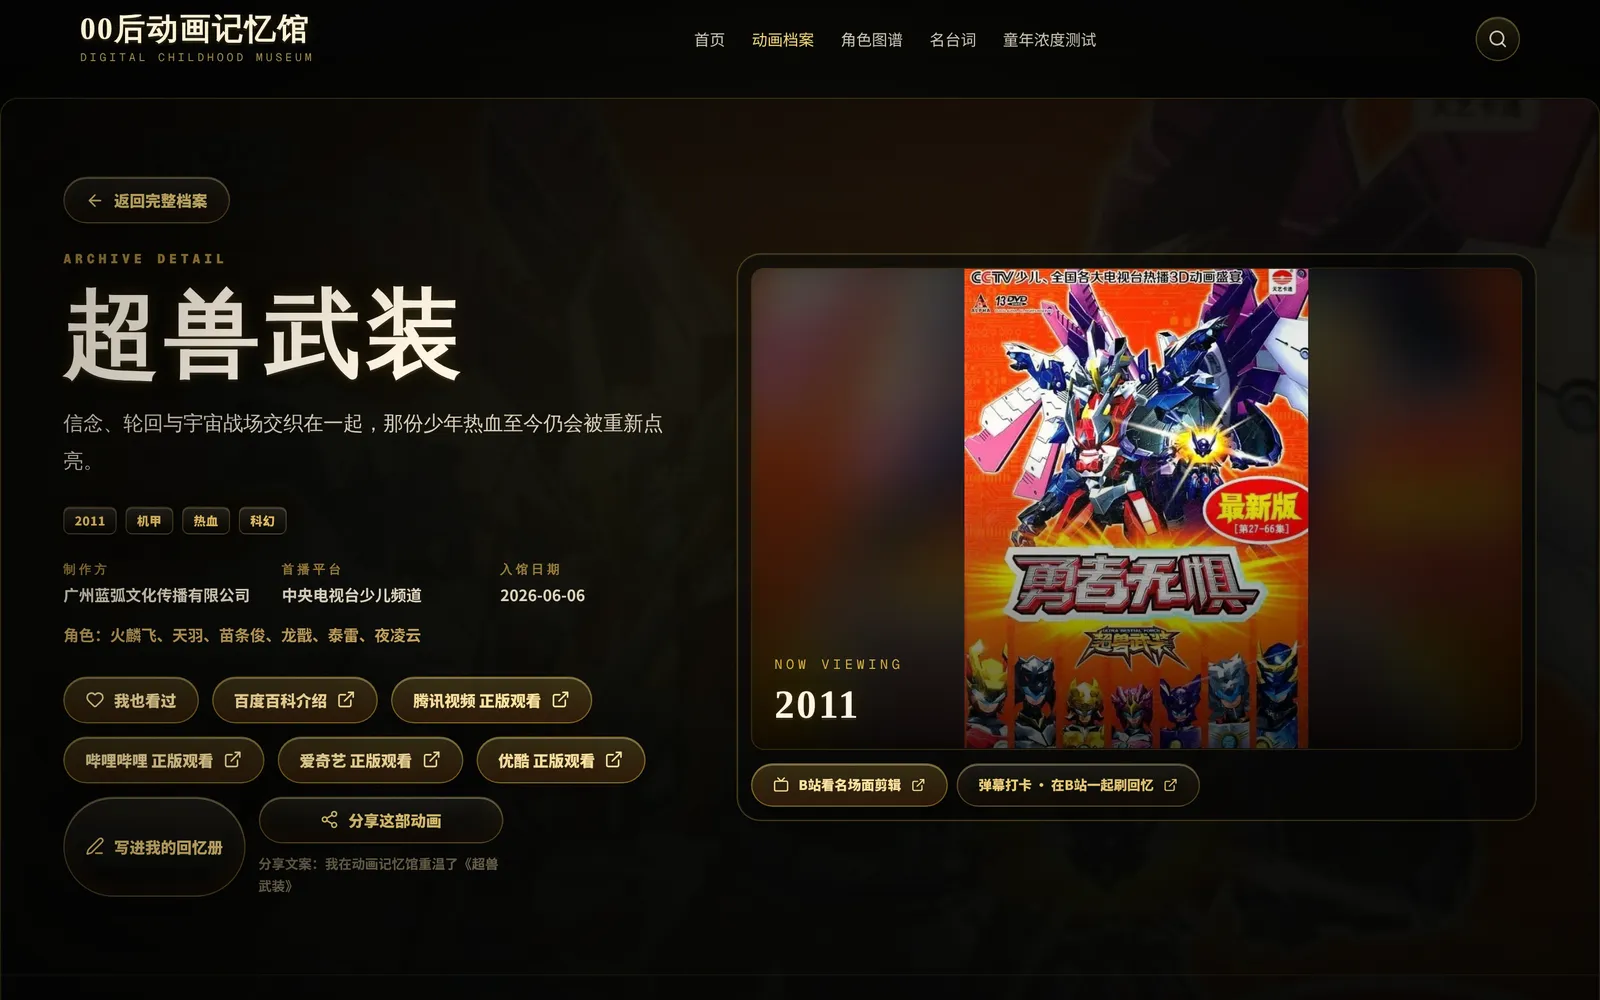
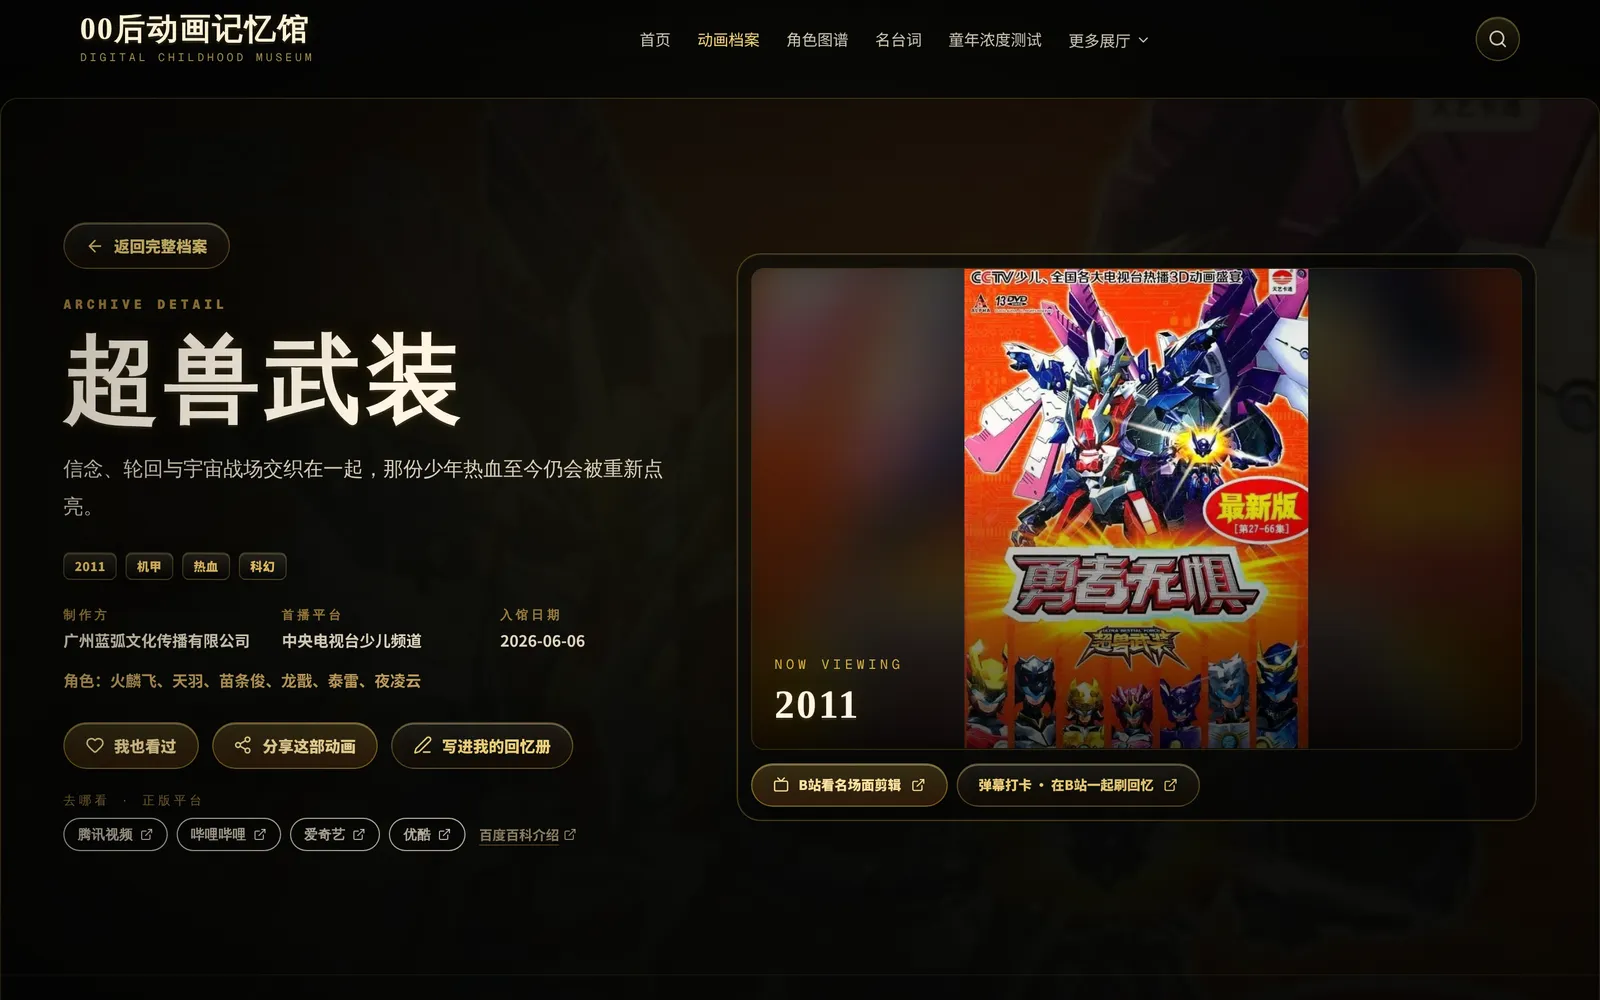
docs: document search/AI discoverability and new features
- New 🔎 section in both READMEs: sitemap, robots, llms.txt, JSON-LD,
  per-page metadata, and the owner-only step of setting
  GOOGLE/BING/BAIDU_SITE_VERIFICATION and submitting the sitemap.
- Program guide, features, commands, testing, structure and limitations
  updated for share previews, quiz card and Memory Book backup.
- Refresh screenshots from the current production build.

Claude-Session: https://claude.ai/code/session_019E66weLZGuBPessZzK1Emk

Changed region(s): [[0.0312, 0.186, 0.4062, 0.899], [0.4062, 0.031, 0.7188, 0.062]]

diff --git a/README.en.md b/README.en.md
@@ -40,12 +40,12 @@ The museum is laid out like a channel lineup. Every row is a real route in `src/
 | **CH 04** · Characters | `/characters` | Interactive relationship graph — drag, pan, zoom, click a character for a profile |
 | **CH 05** · Quotes | `/quotes` | Catchphrases and battle cries, filterable by title |
 | **CH 06** · Songs | `/songs` | Openings and endings styled as cassettes, each a link to search it on Bilibili |
-| **CH 07** · Timeline | `/timeline` | Titles grouped into eras derived from the data |
-| **CH 08** · Quiz | `/quiz` | Six-question "childhood concentration" test with a shareable result |
-| **CH 09** · Memory Book | `/#contribute` | Private notebook saved in your browser, exportable as a PNG card |
+| **CH 07** · Timeline | `/timeline` | Titles grouped into 4-year eras counted from the earliest admitted year |
+| **CH 08** · Quiz | `/quiz` | Six-question "childhood concentration" test; the result can be saved as an image card |
+| **CH 09** · Memory Book | `/#contribute` | Private notebook saved in your browser, exportable as PNG cards, with backup and restore |
 | **CH 10** · About | `/about` | Project story, copyright notice and credits |
 
-A global search (press <kbd>/</kbd>) covers titles, songs, singers and genres from any page.
+On desktop, the "更多展厅" (more halls) menu in the navbar reaches the timeline, songs, Memory Book and About pages. A global search (press <kbd>/</kbd>) covers titles, songs, singers and genres from any page.
 
 ## 🎬 Screenshots
 
@@ -78,8 +78,10 @@ All captured from a local production build with [`scripts/capture-screenshots.mj
 | Curated collection | 35 titles (1999–2018), 160 characters, 155 character relations, 112 quotes, 42 songs |
 | Licensed watch links | 127 outbound links that open each title's search page on official platforms (Tencent Video, Bilibili, iQIYI, Youku, CCTV, Xigua) — nothing is played on-site |
 | Character graph | Per-title relationship graph with drag, pan, zoom, relation labels and character profiles |
-| Memory Book | Write memories in your own browser (the latest 20 are kept); export any of them as a canvas-drawn PNG card |
+| Memory Book | Write memories in your own browser (the latest 20 are kept); export any of them as a canvas-drawn PNG card; back the whole book up to JSON and restore it on another device (duplicates are skipped) |
+| Quiz result card | Turn your quiz result into a 1200×630 image card: native share sheet on phones, download on desktop |
 | "I watched it too" | One-click mark on each exhibit, remembered locally |
+| Share previews | Every hall has its own share title and preview image (captured from the real page); exhibit pages use the title's poster |
 | Share | Native share sheet where supported, clipboard fallback elsewhere |
 | Motion system | Motion tokens and rituals documented in [`Museum-Motion-Design-System-v1.0.md`](./Museum-Motion-Design-System-v1.0.md) |
 
@@ -103,10 +105,34 @@ flowchart LR
 
 ## 🔐 Privacy & Content Boundary
 
-- **Your memories stay on your device.** Memory Book entries and "watched" marks live in `localStorage`; they are never uploaded. Want a memory admitted to the public archive? Open an [issue](https://github.com/Dream22180971/animation-memory-museum/issues).
+- **Your memories stay on your device.** Memory Book entries and "watched" marks live in `localStorage`; they are never uploaded, and backups are downloaded only to your own device. Want a memory admitted to the public archive? Open an [issue](https://github.com/Dream22180971/animation-memory-museum/issues).
 - **The deployed site uses Vercel Web Analytics** (`@vercel/analytics`) for page-view statistics.
 - **No video or audio is hosted.** Watch buttons and song links leave the site for licensed platforms or a Bilibili search.
 - **Sources are cited.** Facts reference public sources such as Baidu Baike (linked per title); posters come from community databases such as [Bangumi](https://bgm.tv), recorded in [`scripts/poster-credits.json`](./scripts/poster-credits.json). All rights belong to the original creators — rights holders can request removal via GitHub Issues, as stated on `/about`.
+
+## 🔎 Search & AI Discoverability
+
+The site exposes these entry points for search engines and AI search. All of them are generated from `animations.json`, so new titles need no manual upkeep:
+
+| Entry point | Content |
+|---|---|
+| [`/sitemap.xml`](https://museum.seanwalter.top/sitemap.xml) | Home, the 7 halls and every exhibit page |
+| [`/robots.txt`](https://museum.seanwalter.top/robots.txt) | Allows all crawlers and explicitly lists AI crawlers such as GPTBot, ClaudeBot and PerplexityBot |
+| [`/llms.txt`](https://museum.seanwalter.top/llms.txt) | A site guide for AI tools: the halls plus each title's year, studio, broadcaster, genres and characters |
+| JSON-LD structured data | `WebSite` on the home page, an `ItemList` on the archive, a `TVSeries` per title (characters, studio, Baidu Baike link) and breadcrumbs |
+| Page metadata | Per-page title, description, canonical URL and share image |
+
+Every page is prerendered at build time, so quotes, characters and songs are in the HTML itself and readable by crawlers that don't run JavaScript.
+
+**One step only the site owner can do:** verify ownership on each platform and submit the sitemap. Verification tags are already wired up; set the matching variable in the deployment environment (e.g. Vercel) and redeploy:
+
+| Platform | Environment variable | Tag emitted |
+|---|---|---|
+| Google Search Console | `GOOGLE_SITE_VERIFICATION` | `google-site-verification` |
+| Bing Webmaster Tools | `BING_SITE_VERIFICATION` | `msvalidate.01` |
+| Baidu Search Resource Platform | `BAIDU_SITE_VERIFICATION` | `baidu-site-verification` |
+
+Unset variables emit nothing.
 
 ## ⚡ Quick Start
 
@@ -134,12 +160,13 @@ Open `http://localhost:3000`.
 | `npm start` | Serve the production build |
 | `npm run test:e2e` | Playwright end-to-end tests |
 | `node scripts/capture-screenshots.mjs` | Regenerate `docs/screenshots/` from a running server (`BASE_URL`, default `http://localhost:3000`) |
+| `node scripts/capture-og-images.mjs` | Re-capture each hall's share image `src/app/**/opengraph-image.jpg` from a running server; rebuild afterwards |
 
 The production build intentionally uses webpack (`next build --webpack`). Keep it that way unless bundle behavior has been re-tested.
 
 ## 🧪 Testing
 
-`tests/e2e/museum.spec.ts` covers home stats and global search, archive filters, the Memory Book (save, export entry, delete, kept out of the public archive), "I watched it too", the quiz, exhibit metadata and licensed links, and the character graph (switching titles, opening profiles, drag and zoom).
+`tests/e2e/museum.spec.ts` covers home stats and global search, archive filters, the Memory Book (save, export entry, delete, backup and restore, kept out of the public archive), "I watched it too", the quiz and its result card, exhibit metadata and licensed links, the character graph (switching titles, opening profiles, drag and zoom), and the sitemap, robots, `llms.txt`, structured data and share metadata.
 
 - Playwright starts its own dev server on `127.0.0.1:3100` and runs a **desktop Chrome** and a **Pixel 5** project.
 - Locally the projects use your installed Google Chrome (`channel: "chrome"`); with `CI` set they use Playwright's bundled Chromium (`npx playwright install chromium`).
@@ -149,11 +176,13 @@ The production build intentionally uses webpack (`next build --webpack`). Keep i
 
 ```text
 src/
-├── app/                 # routes: /, archive, archive/[slug], characters, quotes, songs, timeline, quiz, about
+├── app/                 # routes: /, archive, archive/[slug], characters, quotes, songs, timeline, quiz, about,
+│                        # plus sitemap.ts, robots.ts, llms.txt/ and each hall's opengraph-image.jpg
 ├── components/          # hero (CRT, boot intro, film strip), archive, characters, quotes, songs, timeline,
 │                        # quiz, search, engagement (Memory Book), motion, layout, ui
 ├── data/animations.json # the whole collection — single source of truth
-└── lib/                 # data helpers, quiz logic, site constants (HERO_FEATURED_SLUGS …)
+└── lib/                 # data helpers, quiz logic, site constants (HERO_FEATURED_SLUGS …), page metadata,
+                         # structured data, share-card drawing, Memory Book backup
 scripts/                 # data validation, poster fetching/optimization, screenshots
 tests/e2e/               # Playwright specs
 public/images/           # posters, scene and memory artwork
@@ -169,7 +198,7 @@ public/images/           # posters, scene and memory artwork
 
 - The interface is Chinese-only.
 - The collection is hand-curated: 35 titles from 1999 to 2018, mainland Chinese TV animation only.
-- Memory Book is per-browser: no accounts, no sync, only the latest 20 entries are kept; clearing site data erases it.
+- Memory Book is per-browser: no accounts and no automatic sync, only the latest 20 entries are kept; use "备份回忆册" (back up) before clearing site data.
 - No playback by design — the museum only points to licensed platforms.
 
 ## 🗺 Roadmap

diff --git a/README.md b/README.md
@@ -38,12 +38,12 @@
 | **CH 04** · 角色图谱 | `/characters` | 可交互的角色关系图：拖拽、平移、缩放，点击角色看人物档案 |
 | **CH 05** · 名台词 | `/quotes` | 口头禅、登场句和燃点台词，按作品筛选 |
 | **CH 06** · 动画歌曲 | `/songs` | 磁带样式的片头曲 / 片尾曲，点一首去 B 站搜来听 |
-| **CH 07** · 年代时间线 | `/timeline` | 按数据自动划分年代，把作品串成一条时间线 |
-| **CH 08** · 童年浓度测试 | `/quiz` | 六道题测出你的童年浓度，结果可以晒出来 |
-| **CH 09** · 我的回忆册 | `/#contribute` | 只存在本机浏览器里的回忆册，可导出成 PNG 卡片 |
+| **CH 07** · 年代时间线 | `/timeline` | 从最早的馆藏年份起每 4 年一段，把作品串成一条时间线 |
+| **CH 08** · 童年浓度测试 | `/quiz` | 六道题测出你的童年浓度，结果可以存成图片卡 |
+| **CH 09** · 我的回忆册 | `/#contribute` | 只存在本机浏览器里的回忆册，可导出 PNG 卡片，也能备份和恢复 |
 | **CH 10** · 关于我们 | `/about` | 项目故事、版权声明与致谢 |
 
-任意页面按 <kbd>/</kbd> 都能打开全局搜索，可以搜动画、歌曲、歌手和题材。
+桌面端导航里的「更多展厅」可以直达时间线、歌曲、回忆册和关于页。任意页面按 <kbd>/</kbd> 都能打开全局搜索，可以搜动画、歌曲、歌手和题材。
 
 ## 🎬 页面截图
 
@@ -76,8 +76,10 @@
 | 馆藏规模 | 35 部作品（1999–2018）、160 位角色、155 条角色关系、112 句台词、42 首歌曲 |
 | 正版观看入口 | 127 个外链，直接打开作品在腾讯视频、哔哩哔哩、爱奇艺、优酷、央视频、西瓜视频上的搜索页，站内不播放任何内容 |
 | 角色图谱 | 每部作品一张关系图，支持拖拽、平移、缩放、关系标签和人物档案 |
-| 我的回忆册 | 回忆写在自己的浏览器里（保留最新 20 条），任意一条都能用 canvas 画成 PNG 卡片导出 |
+| 我的回忆册 | 回忆写在自己的浏览器里（保留最新 20 条），任意一条都能用 canvas 画成 PNG 卡片导出；整本册子可以备份成 JSON，换设备后再恢复（自动去重） |
+| 测试结果卡片 | 童年浓度测试的结果可以生成 1200×630 的图片卡，手机上直接调起分享，桌面端下载 |
 | 我也看过 | 每个展品一键标记，记在本机 |
+| 分享预览 | 每个展厅都有自己的分享标题和预览图（截自真实页面），展品详情页用该作品的海报 |
 | 分享 | 支持系统分享面板的设备直接调起，其他情况复制到剪贴板 |
 | 动效系统 | 动效 token 与仪式规范见 [`Museum-Motion-Design-System-v1.0.md`](./Museum-Motion-Design-System-v1.0.md) |
 
@@ -101,10 +103,34 @@ flowchart LR
 
 ## 🔐 隐私与内容边界
 
-- **回忆只留在你的设备上。** 回忆册和"我也看过"的标记都存在浏览器 `localStorage` 里，不会上传。想让某段回忆进入公开馆藏，可以[提 Issue](https://github.com/Dream22180971/animation-memory-museum/issues)。
+- **回忆只留在你的设备上。** 回忆册和"我也看过"的标记都存在浏览器 `localStorage` 里，不会上传；备份文件也只下载到你自己的设备。想让某段回忆进入公开馆藏，可以[提 Issue](https://github.com/Dream22180971/animation-memory-museum/issues)。
 - **线上站点接入了 Vercel Web Analytics**（`@vercel/analytics`），用于统计页面访问。
 - **不托管任何视频或音频。** 观看按钮和歌曲链接都会离开本站，跳到正版平台或 B 站搜索。
 - **来源可查。** 资料考据参考百度百科等公开来源（每部作品都附链接）；海报收集自 [Bangumi](https://bgm.tv) 等社区数据库，记录在 [`scripts/poster-credits.json`](./scripts/poster-credits.json)。所有素材版权归原作者及出品方所有，权利人可通过 GitHub Issue 申请下架，详见 `/about` 页。
+
+## 🔎 搜索与 AI 收录
+
+网站为搜索引擎和 AI 搜索准备了这些入口，全部由 `animations.json` 自动生成，新增馆藏无需手动维护：
+
+| 入口 | 内容 |
+|---|---|
+| [`/sitemap.xml`](https://museum.seanwalter.top/sitemap.xml) | 首页、7 个展厅和全部展品详情页 |
+| [`/robots.txt`](https://museum.seanwalter.top/robots.txt) | 放行所有爬虫，并单独列出 GPTBot、ClaudeBot、PerplexityBot 等 AI 爬虫 |
+| [`/llms.txt`](https://museum.seanwalter.top/llms.txt) | 给 AI 读的站点导读：展厅说明和每部作品的年份、制作方、首播平台、类型与角色 |
+| JSON-LD 结构化数据 | 首页 `WebSite`、档案页 `ItemList`、每部作品 `TVSeries`（含角色、制作方、百科链接）和面包屑 |
+| 页面元数据 | 每个页面独立的标题、描述、canonical 和分享预览图 |
+
+所有页面都在构建时预渲染，台词、角色、歌曲等文字直接写在 HTML 里，不执行 JavaScript 的爬虫也能读到。
+
+**需要站长自己完成的一步：** 在各平台验证网站所有权并提交站点地图。网站已预留验证标签，在部署环境（如 Vercel）里设置对应变量后重新部署即可：
+
+| 平台 | 环境变量 | 生成的标签 |
+|---|---|---|
+| Google Search Console | `GOOGLE_SITE_VERIFICATION` | `google-site-verification` |
+| Bing Webmaster Tools | `BING_SITE_VERIFICATION` | `msvalidate.01` |
+| 百度搜索资源平台 | `BAIDU_SITE_VERIFICATION` | `baidu-site-verification` |
+
+没设置的变量不会输出任何标签。
 
 ## ⚡ 快速开始
 
@@ -132,12 +158,13 @@ npm run dev
 | `npm start` | 启动生产构建 |
 | `npm run test:e2e` | Playwright 端到端测试 |
 | `node scripts/capture-screenshots.mjs` | 对运行中的站点重新生成 `docs/screenshots/`（可用 `BASE_URL` 指定地址，默认 `http://localhost:3000`） |
+| `node scripts/capture-og-images.mjs` | 对运行中的站点重新截取各展厅的分享预览图 `src/app/**/opengraph-image.jpg`，之后需要重新构建 |
 
 生产构建刻意使用 webpack（`next build --webpack`）。除非重新验证过 Bundle 行为，否则请保持不变。
 
 ## 🧪 测试
 
-`tests/e2e/museum.spec.ts` 覆盖：首页统计与全局搜索、档案筛选、回忆册（保存、导出入口、删除，且不会混进公开档案）、"我也看过"、童年浓度测试、展品元数据与正版入口，以及角色图谱（切换作品、打开人物档案、拖拽与缩放）。
+`tests/e2e/museum.spec.ts` 覆盖：首页统计与全局搜索、档案筛选、回忆册（保存、导出入口、删除、备份与恢复，且不会混进公开档案）、"我也看过"、童年浓度测试与结果卡片、展品元数据与正版入口、角色图谱（切换作品、打开人物档案、拖拽与缩放），以及站点地图、robots、`llms.txt`、结构化数据和分享元数据。
 
 - Playwright 会自己在 `127.0.0.1:3100` 启动开发服务器，分别跑 **桌面 Chrome** 和 **Pixel 5** 两个项目。
 - 本地默认使用你已安装的 Google Chrome（`channel: "chrome"`）；设置了 `CI` 环境变量时改用 Playwright 自带的 Chromium（需先 `npx playwright install chromium`）。
@@ -147,11 +174,13 @@ npm run dev
 
 ```text
 src/
-├── app/                 # 路由：/、archive、archive/[slug]、characters、quotes、songs、timeline、quiz、about
+├── app/                 # 路由：/、archive、archive/[slug]、characters、quotes、songs、timeline、quiz、about，
+│                        # 以及 sitemap.ts、robots.ts、llms.txt/ 和各展厅的 opengraph-image.jpg
 ├── components/          # hero（CRT、开机动画、胶片条）、archive、characters、quotes、songs、timeline、
 │                        # quiz、search、engagement（回忆册）、motion、layout、ui
 ├── data/animations.json # 全部馆藏，唯一数据源
-└── lib/                 # 数据工具、测试逻辑、站点常量（HERO_FEATURED_SLUGS 等）
+└── lib/                 # 数据工具、测试逻辑、站点常量（HERO_FEATURED_SLUGS 等）、页面元数据、结构化数据、
+                         # 分享卡片绘制、回忆册备份
 scripts/                 # 数据校验、海报抓取与压缩、截图
 tests/e2e/               # Playwright 用例
 public/images/           # 海报、场景与回忆插图
@@ -167,7 +196,7 @@ public/images/           # 海报、场景与回忆插图
 
 - 界面只有中文。
 - 馆藏为人工整理：目前 35 部，年份跨度 1999–2018，只收录国产电视动画。
-- 回忆册按浏览器保存：没有账号、不能同步，只保留最新 20 条，清除站点数据就会丢失。
+- 回忆册按浏览器保存：没有账号、不会自动同步，只保留最新 20 条；清除站点数据前请先用「备份回忆册」导出。
 - 不提供播放，这是刻意的设计：记忆馆只负责把你指向正版平台。
 
 ## 🗺 路线图
